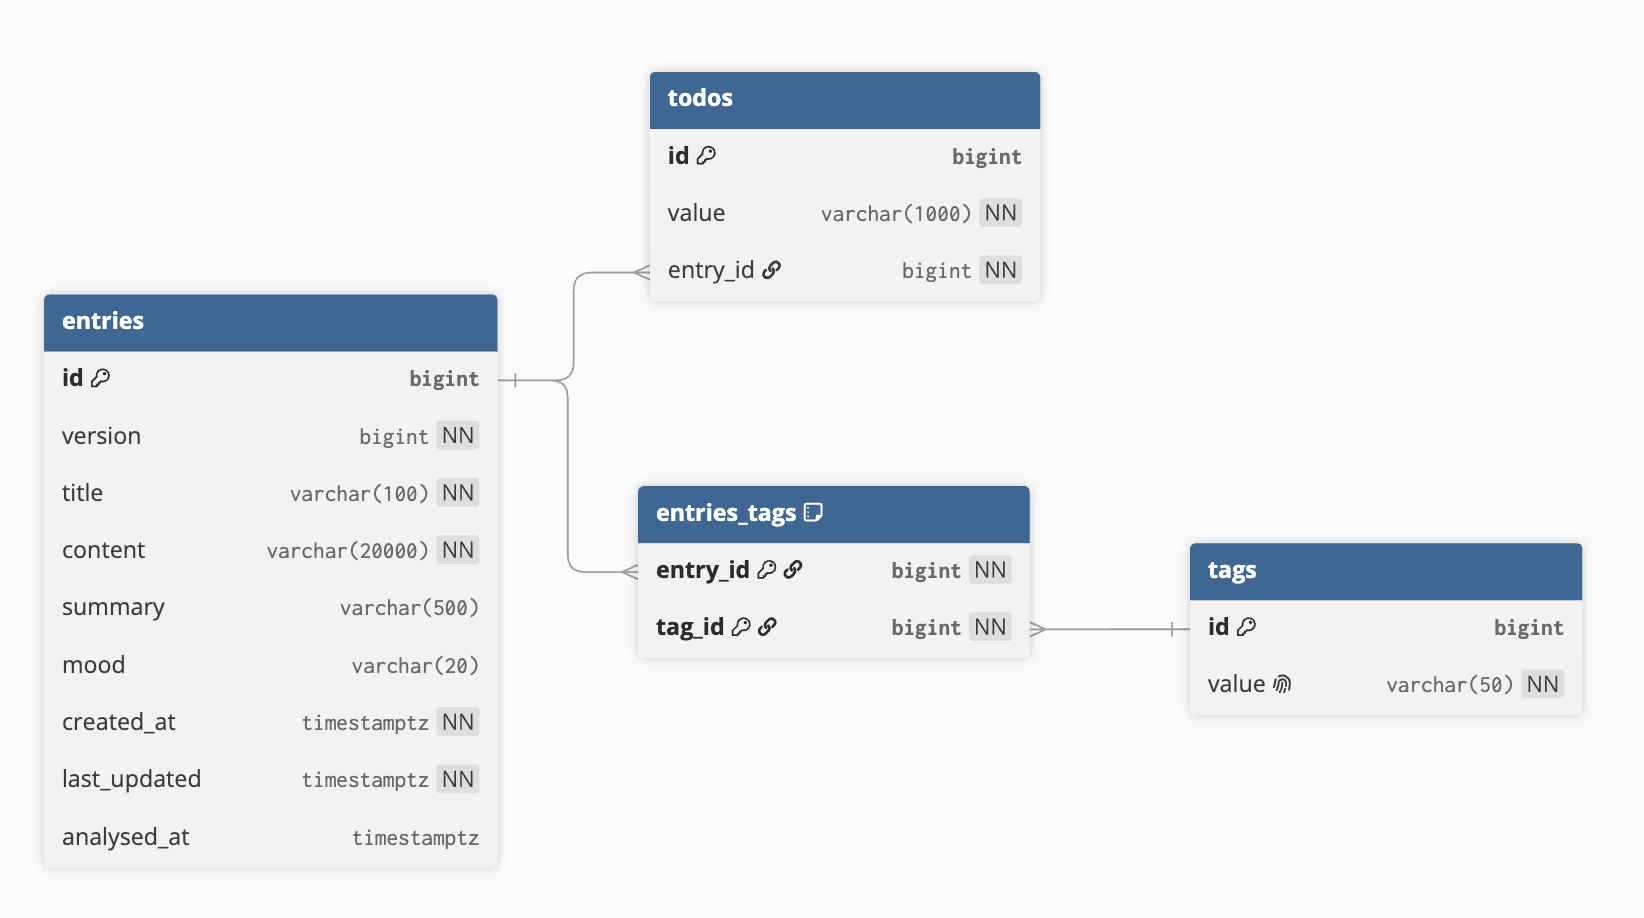
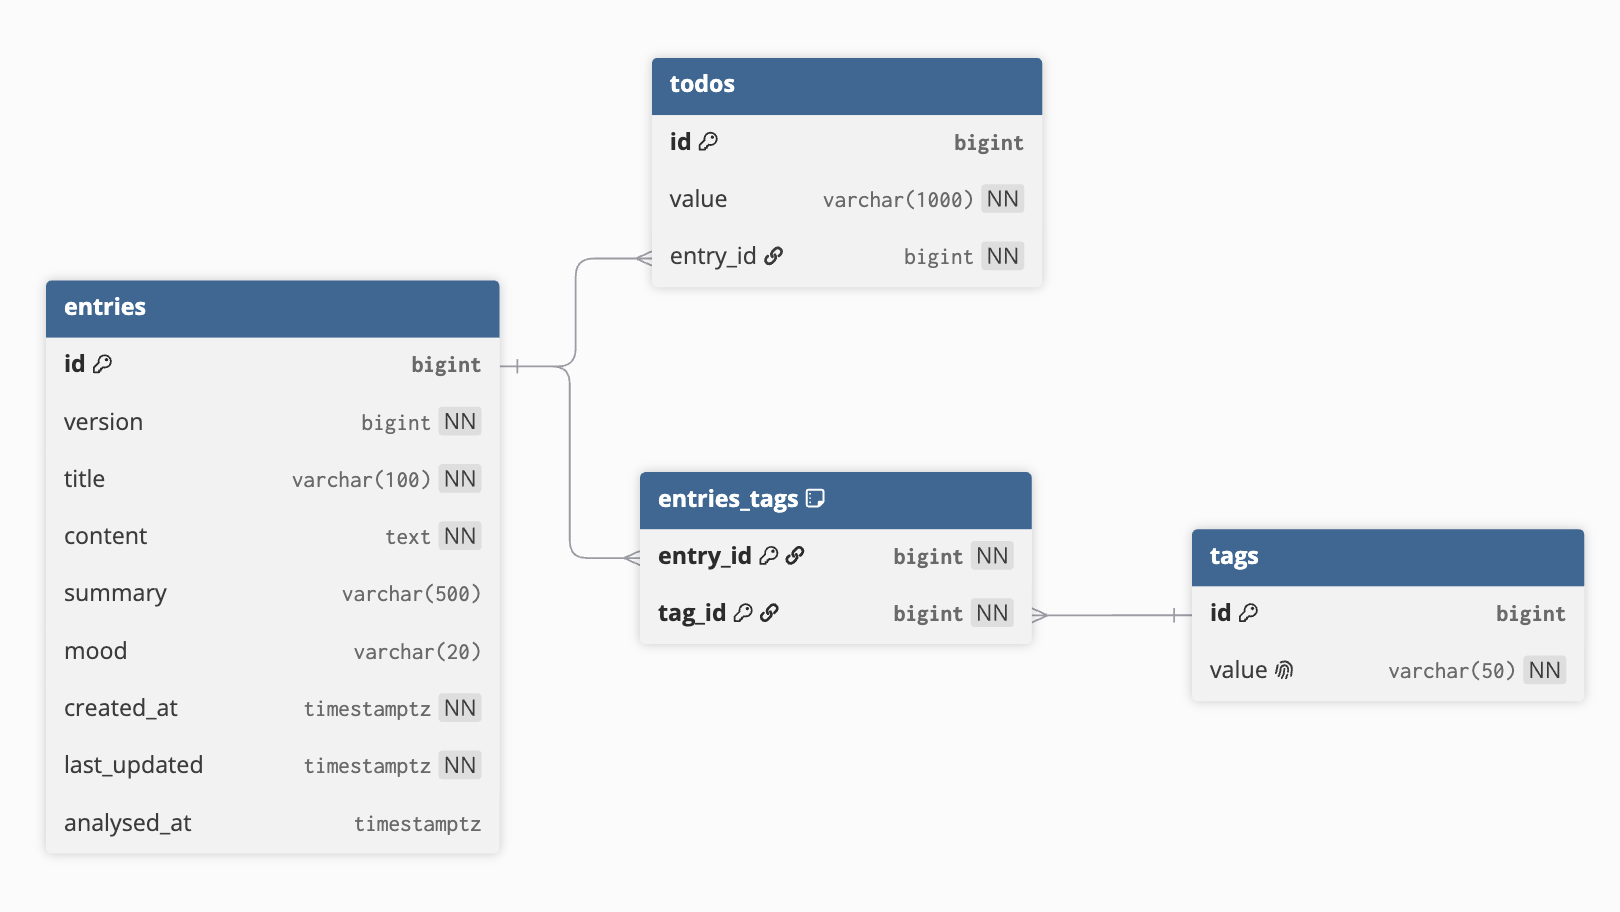
Changed content varchar back to text and added constraint.

diff --git a/docs/database/field-validation.md b/docs/database/field-validation.md
@@ -11,7 +11,7 @@ The rule of thumb: **reject when a human is watching, clean when the model is.**
 | Field | Rules | Enforced in request | Enforced in domain | Enforced in DB |
 |---|---|---|---|---|
 | **title** | not null/blank/empty; ≤ 100 | `@NotBlank`, `@Size(100)` (both DTOs) | Trim whitespace (outer); NFC normalisation | `NOT NULL`, `VARCHAR(100)` |
-| **content** | not null/blank/empty; ≤ 20000 | `@NotBlank`, `@Size(20000)` (both DTOs) | Trim whitespace (outer); NFC normalisation | `NOT NULL`, `VARCHAR(20000)` |
+| **content** | not null/blank/empty; ≤ 20000 | `@NotBlank`, `@Size(20000)` (both DTOs) | Trim whitespace (outer); NFC normalisation | `NOT NULL`, `TEXT`, `CHECK (length(content) <= 20000)` |
 | **summary** | over-length rejected on edit; empty → null; null allowed; ≤ 500 | Edit DTO: `@Size(max = 500)`. Not on create DTO. | Trim (outer); collapse inner whitespace runs; NFC; if empty/blank → null; if length > 500 → null | `VARCHAR(500)`, nullable |
 | **mood** | not blank/empty → becomes null; null allowed; enum check (one of six values or null) | — | Trim (outer); collapse inner whitespace runs; NFC; uppercase; if empty/blank → null; check enum allowed (else null) | `VARCHAR(20)`, `CHECK (mood IN ('HAPPY','CALM',...))`, nullable |
 | **tag** | over-length rejected on edit; empty → dropped; ≤ 50; unique | Edit DTO: `@Size(max = 50)` per item. Not on create DTO. | Trim (outer); collapse inner whitespace runs; NFC; lowercase; if empty/blank/null → remove; if length > 50 → remove | `NOT NULL`, `VARCHAR(50)`, `UNIQUE` |
